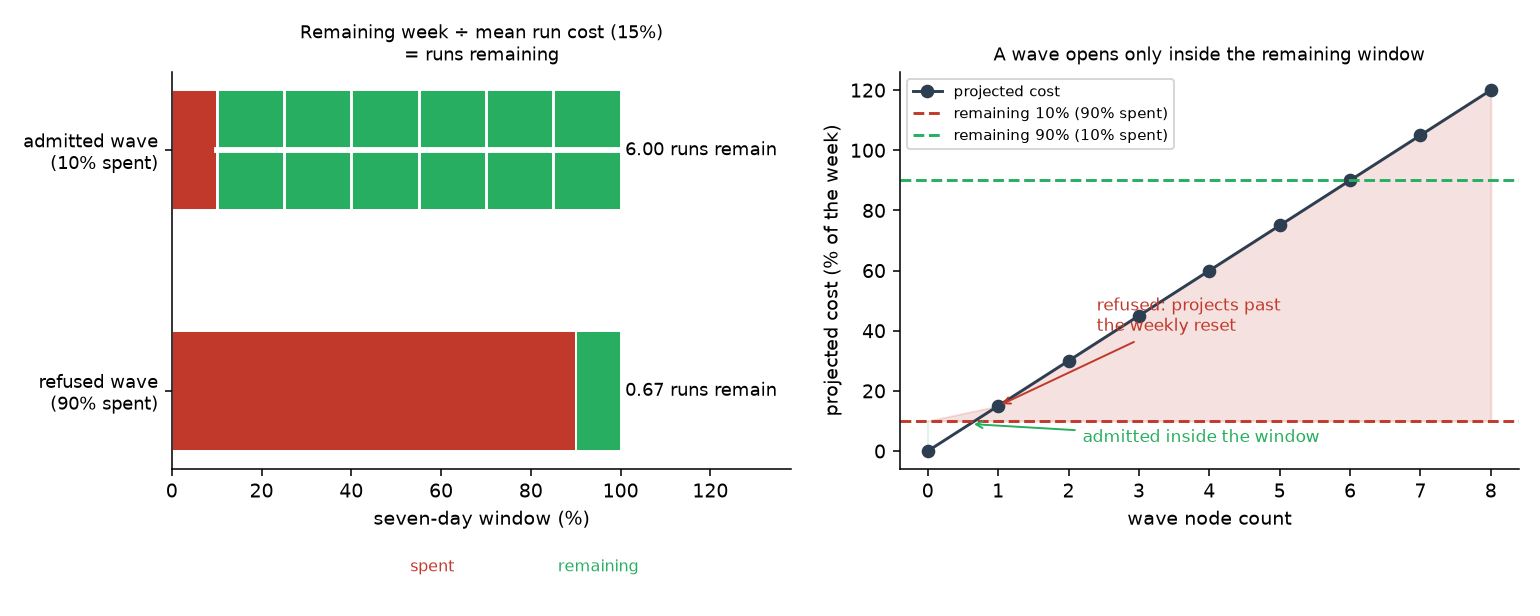
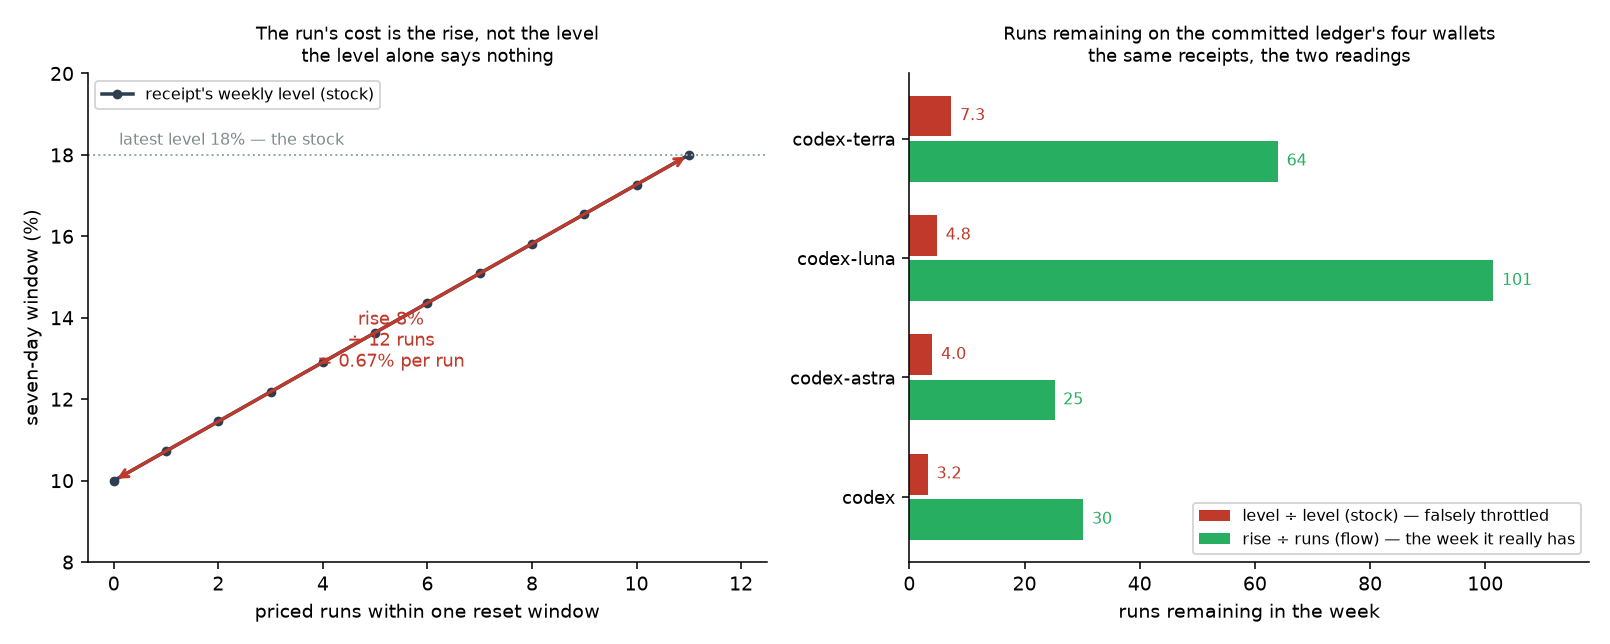
docs(plans): record the quota runway priced as a flow, not the window's level
The landing record and the evidence anchor described the runs-remaining figure
as the remaining week divided by the mean receipt level. That is a stock over a
stock and it throttled every metered wave, so both now describe the flow: the
rise in a window's level from its earliest to its latest priced receipt over the
runs that produced it, summed per reset window, with fewer than two receipts or
no rise reported as unmeasured.

The evidence anchor gains the committed-ledger measurement -- each of the four
wallets' rise, priced runs, per-run cost and runs remaining beside the old
level-based figure -- and the heads and controls at the corrected head. The
figure is redrawn: left, a window's receipts rising 10 to 18% across 12 runs, the
rise divided by the run count; right, the four wallets' runs remaining, flow
beside level on the same receipts.

diff --git a/docs/evidence/archive/the-fleet-reports-its-velocity-landed.html b/docs/evidence/archive/the-fleet-reports-its-velocity-landed.html
@@ -10,7 +10,7 @@
   <meta name="plan-summary" content="One path classifier in the package returns the same six line classes as the velocity census it was ported from.">
   <meta name="plan-evidence-for" content="the-fleet-reports-its-velocity">
   <meta name="plan-verifies" content="the-fleet-reports-its-velocity#s2,the-fleet-reports-its-velocity#s4,the-fleet-reports-its-velocity#s5">
-  <meta name="plan-commits" content="85af514b,4d79a470,fe33dbf6,c45327c8">
+  <meta name="plan-commits" content="85af514b,4d79a470,fe33dbf6,c45327c8,0f135716">
   <meta name="plan-artifacts" content="reckon/path_classes.py,tests/test_path_classes.py,reckon/velocity.py,tests/test_velocity_work_in_progress.py,reckon/budget.py,tests/test_preflight_runs_remaining.py,docs/figures/the-fleet-reports-its-velocity/quota-runway.png">
   <meta name="plan-recorded-at" content="2026-09-27">
   <meta name="plan-verdict" content="passed">
@@ -227,49 +227,73 @@
       input is restated &mdash; the remaining window is the group's own seven-day clock, the same
       one the pace already divides, and the drain deadline comes from
       <code>reckon/crew/pace.py</code>'s <code>drain_deadline</code>; membership comes from
-      <code>budget_group.declared_groups</code>. The mean is priced from each committed run
-      record's own <code>lane_receipt.quota_windows</code> row for the ten-thousand-and-eighty-minute
-      window, averaged over runs whose own durable stamp places them inside the trailing week, so a
-      receipt from outside the horizon &mdash; measuring a window that has already reset &mdash;
-      does not enter. The judgement extends <code>_group_bar</code> and <code>group_pace</code>
-      rather than adding a second bar, so one entry carries the whole verdict.</p>
-      <p>Two properties make the figure honest rather than merely present. It carries the age of
+      <code>budget_group.declared_groups</code>. The judgement extends <code>_group_bar</code> and
+      <code>group_pace</code> rather than adding a second bar, so one entry carries the whole
+      verdict.</p>
+      <p>Commit <code>0f135716</code> corrects how the per-run cost is priced, which is the whole
+      substance of the figure. A run record's own <code>lane_receipt.quota_windows</code> row for
+      the ten-thousand-and-eighty-minute window is the <em>level</em> that window stood at when the
+      run was harvested &mdash; a stock, not what the run itself consumed. Dividing the remaining
+      window by that level is a stock over a stock. The per-run cost is instead the <em>flow</em>:
+      the rise in a window's level from its earliest to its latest priced receipt over the runs that
+      produced it, summed across the reset windows present in the trailing week. Because a window is
+      keyed by its own reset boundary, a window that reset inside the trailing week contributes its
+      own rise and never its level against the current window's; a receipt from outside the horizon,
+      measuring a window that has already reset, does not enter.</p>
+      <p>Three properties make the figure honest rather than merely present. It carries the age of
       both its inputs &mdash; the window reading's own age and the mean's observation age &mdash;
-      because a figure that cannot be aged cannot be told from a current one. And it is
-      <em>unmeasured</em>, never zero, when fewer than one priced run exists.</p>
+      because a figure that cannot be aged cannot be told from a current one. It is
+      <em>unmeasured</em>, never zero, when a window holds fewer than two priced receipts or none
+      that rose: an absence is not a spent week, and the same substitution is refused for a hold and
+      for a reset; the receipt-quantisation caveat rides the figure.</p>
       <figure>
         <img src="/reckon/figures/the-fleet-reports-its-velocity/quota-runway.png"
-          alt="Left: the seven-day window split into spent and remaining for a 90%-spent and a 10%-spent group, the mean 15% run cost repeated across what is left to give 0.67 and 6.00 runs. Right: the wave's projected cost rising with node count against the remaining-window lines, the admitted region below and the refused region above.">
-        <figcaption>Left: the runs-remaining figure is literally how many mean-cost runs fit in the
-        remaining week &mdash; at 90% spent, 0.67 runs remain; at 10% spent, 6.00. Right: the
-        refusal boundary. A wave's projected cost is its node count times the mean run cost, so at
-        90% spent a single 15% run projects past the 10% that remains and the wave is refused; the
-        same run opens comfortably against 90% remaining. The refusal names both figures a
-        coordinator sizes against: the runs remaining and the reset time. Absence of a signal never
-        holds a wave &mdash; an unmeasured runway admits, exactly as an unread lane does.</figcaption>
+          alt="Left: one reset window's receipts rising from 10% to 18% across 12 priced runs, the rise marked and divided by the run count to give 0.67% per run. Right: for four wallets, the runs remaining under the flow reading (25 to 101) beside the level reading (3.2 to 7.3) on the same receipts.">
+        <figcaption>Left: the run's cost is the rise, not the level &mdash; a window that rises from
+        10% to 18% across 12 priced runs spends 8/12 = 0.67% per run, while the latest level of 18%
+        alone says nothing about cost. Right: the same receipts read two ways on the committed
+        ledger's four wallets. The level reading throttles each to a handful of runs; the flow shows
+        the week each wallet actually has, and a wave is sized against that. A wave whose projected
+        cost &mdash; node count times the mean run cost &mdash; exceeds the remaining window is
+        refused, with the runs remaining and the reset time in the refusal text and its nodes held
+        rather than dropped. Absence of a signal never holds a wave &mdash; an unmeasured runway
+        admits, exactly as an unread lane does.</figcaption>
       </figure>
       <table>
         <thead><tr><th>Measure</th><th>Result</th></tr></thead>
         <tbody>
           <tr><td>Base arm (<code>fb747528</code>, budget and pace files)</td><td>192 passed, exit 0</td></tr>
-          <tr><td>Head arm (same files plus the new case of record)</td><td>202 passed, exit 0</td></tr>
-          <tr><td>Added by this node</td><td>10 passed, no failures added</td></tr>
-          <tr><td>Declared negative control</td><td>1 failed, exit 1</td></tr>
+          <tr><td>Head arm (same files plus the new case of record, at the committed head)</td><td>205 passed, exit 0</td></tr>
+          <tr><td>Added by this node</td><td>13 passed, no failures added</td></tr>
+          <tr><td>Declared negative control &mdash; price at the level again</td><td>8 failed, exit 1</td></tr>
+        </tbody>
+      </table>
+      <p>Over the committed ledger the flow reading is not academic: 2,243 records, four wallets
+      with priced receipts inside the trailing week. Each wallet's rise, priced runs, per-run cost
+      and runs remaining, beside the old level-based figure:</p>
+      <table>
+        <thead><tr><th>Wallet</th><th>Receipts</th><th>Reset windows</th><th>Rise (%)</th><th>Priced runs</th><th>Per-run (%)</th><th>Level runs remaining</th><th>Flow runs remaining</th></tr></thead>
+        <tbody>
+          <tr><td>codex</td><td>19</td><td>3</td><td>49</td><td>19</td><td>2.58</td><td>3.2</td><td>30.2</td></tr>
+          <tr><td>codex-astra</td><td>17</td><td>3</td><td>45</td><td>17</td><td>2.81</td><td>4.0</td><td>25.2</td></tr>
+          <tr><td>codex-luna</td><td>13</td><td>2</td><td>10</td><td>13</td><td>0.77</td><td>4.8</td><td>101.4</td></tr>
+          <tr><td>codex-terra</td><td>5</td><td>4</td><td>3</td><td>5</td><td>1.50</td><td>7.3</td><td>64.0</td></tr>
         </tbody>
       </table>
       <p><code>tests/test_preflight_runs_remaining.py</code> builds synthetic run records under a
       temporary ledger and a synthetic group window, so the figure is arithmetic rather than a
-      stroke of this host's clock. It asserts the runs-remaining figure (a 40% window over a 20%
-      mean run cost is 2.0 runs), the age of both inputs and the receipt quantisation, the
-      per-role and per-group split, that a run from beyond the trailing week is not priced, that no
-      priced run reports unmeasured and never zero, that an unread week reports unmeasured with no
-      remaining window, that an unmeasured runway refuses nothing, that a wave projected past the
-      reset is refused with the runs-remaining figure and the reset time in its text and its node
-      held rather than dropped, that a wave inside the window is admitted, and that the pre-flight
-      reads its records from the ledger it is given. The declared negative control drops the
-      projected-cost refusal from the group bar; the past-reset wave is then admitted and the
-      refusal case reddens. Logs: <code>gate-base.log</code>, <code>gate-head.log</code>,
-      <code>gate-negative-control.log</code>.</p>
+      stroke of this host's clock. It asserts the flow figure (receipts rising 10 to 18% over 12
+      priced runs report 8/12 per run and the week's runs), that a window that resets mid-series
+      prices only the current window's rise, that a nearly full window does not report few runs, the
+      age of both inputs and the receipt quantisation, the per-role and per-group split, that a run
+      from beyond the trailing week is not priced, that a single priced receipt is unmeasured and
+      never zero, that an unread week reports unmeasured with no remaining window, that an unmeasured
+      runway refuses nothing, that a wave projected past the reset is refused with the
+      runs-remaining figure and the reset time in its text and its node held rather than dropped,
+      that a wave inside the window is admitted, and that the pre-flight reads its records from the
+      ledger it is given. The declared negative control prices a run at its receipt's level again;
+      the rising-receipts case then reddens, as do the cases that depend on it. Logs:
+      <code>gate-base.log</code>, <code>gate-control-level.log</code>, <code>gate-head.log</code>.</p>
     </section>
   </main>
 </body>

diff --git a/docs/plans/the-fleet-reports-its-velocity.html b/docs/plans/the-fleet-reports-its-velocity.html
@@ -174,15 +174,21 @@
         <code>reckon/budget.py</code>'s group pace now reports, for each metered budget group and role, the
         runs remaining before the weekly reset: the group's remaining seven-day window divided by the mean
         per-run quota cost over the trailing seven days, priced from each committed run record's own
-        <code>lane_receipt.quota_windows</code> seven-day row. A wave whose projected cost &mdash; its node
-        count times that mean &mdash; exceeds the remaining window is refused before a worktree exists, with
-        the runs remaining and the reset time in the refusal text, and the node it would have admitted is held
-        rather than dropped; a runway resting on fewer than one priced run is unmeasured, never zero. The
-        judgement extends <code>_group_bar</code> and <code>group_pace</code> rather than adding a second bar;
-        membership is <code>budget_group.declared_groups</code> and the drain deadline is
-        <code>pace.drain_deadline</code>'s, neither restated. Gate: 202 passed across the ten budget and pace
-        files including the 10 new cases, exit 0; base arm 192 passed. The declared control &mdash; dropping the
-        projected-cost refusal &mdash; admits the past-reset wave and reddens its case (1 failed, exit 1). Full
+        <code>lane_receipt.quota_windows</code> seven-day row. The per-run cost is read as a <em>flow</em>,
+        not a stock: a receipt's seven-day figure is the level its reset window stood at when the run was
+        harvested, so the cost is the rise from the earliest to the latest priced receipt of one window over
+        the runs that produced it, summed per window &mdash; a window that reset inside the trailing week
+        contributes its own rise and never its level against the current window's. A window with fewer than
+        two priced receipts, or none that rose, is unmeasured, never zero runs and never infinite; the
+        quantisation caveat and the age of both inputs ride the figure. A wave whose projected cost &mdash;
+        its node count times that mean &mdash; exceeds the remaining window is refused before a worktree
+        exists, with the runs remaining and the reset time in the refusal text, and the node it would have
+        admitted is held rather than dropped. The judgement extends <code>_group_bar</code> and
+        <code>group_pace</code> rather than adding a second bar; membership is
+        <code>budget_group.declared_groups</code> and the drain deadline is
+        <code>pace.drain_deadline</code>'s, neither restated. Gate: 205 passed across the ten budget and pace
+        files including the 13 new cases, exit 0; base arm 192 passed. The declared control &mdash; pricing a
+        run at its receipt's level again &mdash; reddens the rising-receipts case (8 failed, exit 1). Full
         record:
         <a href="/reckon/evidence/archive/the-fleet-reports-its-velocity-landed#s4-quota-runway">§4 quota runway</a>.</p>
     </div>
